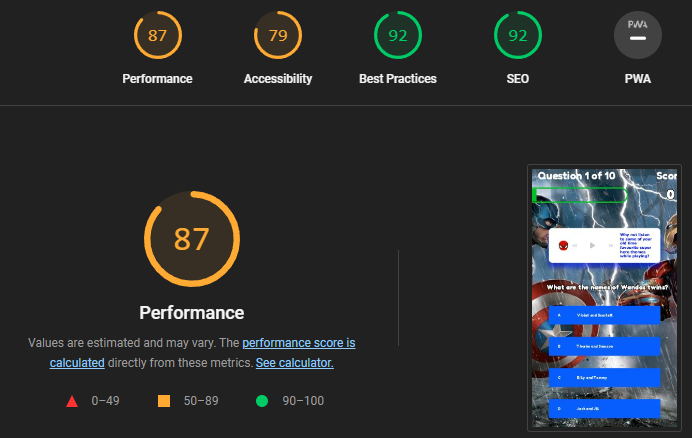
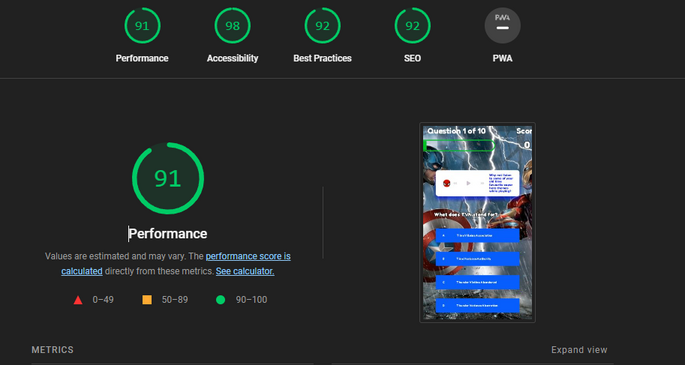
add additional details on game page correct by adding aria label and also included additonal errors encountered and how they were rectified

diff --git a/README.md b/README.md
@@ -215,7 +215,7 @@ Home page - I was content with the score given here.
 
 <img src="https://github.com/PrezBala/ProjectTwo-Quiz/blob/main/assets/readmeimages/lighthouse.png">
 
-Game page - In future i will consider using webP format for images to improve load times and scores.
+Game page - In future i will consider using webP format for images to improve load times and also i've added a aria-label within the music players buttons to improve accessibility score.
 
 <img src="https://github.com/PrezBala/ProjectTwo-Quiz/blob/main/assets/readmeimages/lighthouse2.png">
 
@@ -231,6 +231,20 @@ I encountered  bugs / issues during the creation stage of the music players with
 The issues i encountered with the music player initially was that the image failed to appear / rotate though after checking through all the reference points within the code i made a few amendments and the image pulled through correctly.
 
 On the smaller devices the music player / progress bar were unable to fit within the screen, though after referencing the correct codes for them within .css and through several tweaking and testing i got it to the stage i am content with.
+
+I've also encountered two errors after deploying the site to live.
+
+1st error was in regards to the background wallpaper, i found the image was fitted to the screen correctly, as shown below.
+
+<img src="https://github.com/PrezBala/ProjectTwo-Quiz/blob/main/assets/readmeimages/error1.png">
+
+This issue was corrected within style.css by adding a reference for body and adding a "no-repeat and cover" tag.
+
+The 2nd error is a "error 404" displaying when attempting to save the high score as shown below.
+
+<img src="https://github.com/PrezBala/ProjectTwo-Quiz/blob/main/assets/readmeimages/error2.png">
+
+
 
 ## Improvements for the Site
 
